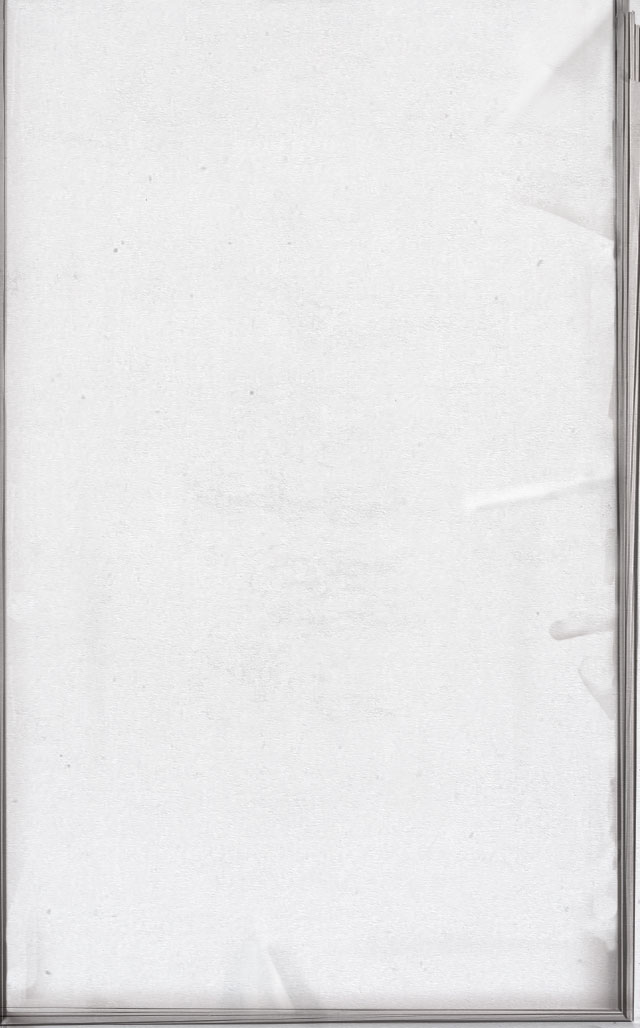
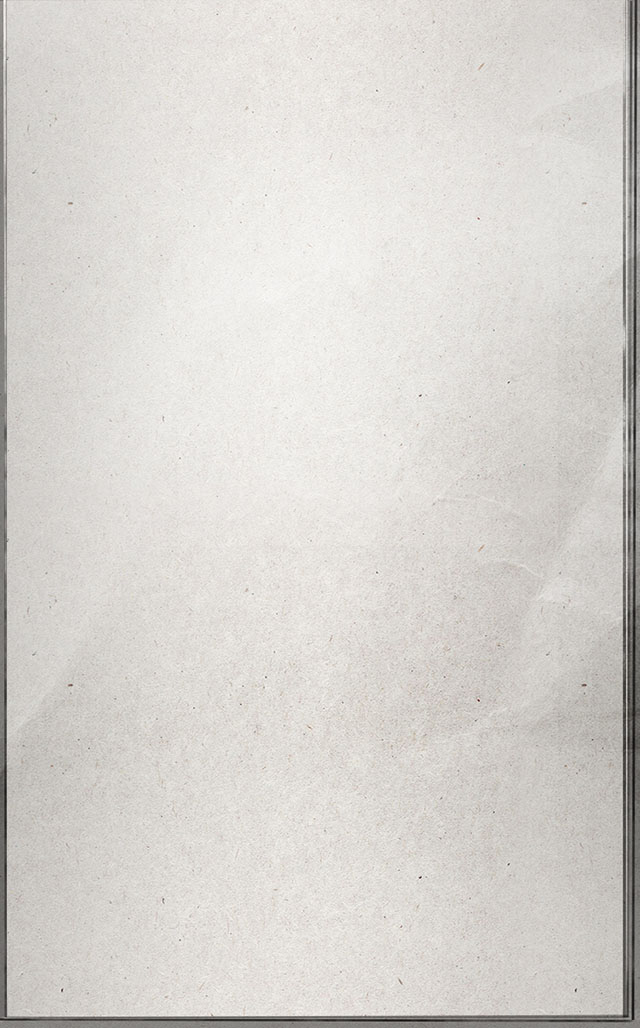
new style

diff --git a/js/jquery.jflip-0.4.js b/js/jquery.jflip-0.4.js
@@ -12,7 +12,7 @@ var screenH = document.documentElement.clientHeight,
     screenW = document.documentElement.clientWidth,
     middlev = parseInt(screenW/2),
     ss = 0,
-    page = 5,
+    page = 4,
     nowPage = 1,
     moveXcount = 0,
     changeValue = true,
@@ -265,7 +265,7 @@ var screenH = document.documentElement.clientHeight,
         },false);
         mainP.addEventListener('touchend', function (e) {
             if(count_data.touchStartX>=middlev){
-                if(nowPage<5){
+                if(nowPage<4){
                     onCorner = true;
                     sideLeft = false;
                     if(changeValue){
@@ -302,7 +302,7 @@ var screenH = document.documentElement.clientHeight,
                         clearTimeout(delayTimer)
                     }
                 }
-                if(nowPage != 5){
+                if(nowPage != 4){
                     $(".share-bg").hide();
                     $(".share-tips").hide();
                 }
@@ -320,15 +320,9 @@ var screenH = document.documentElement.clientHeight,
                 clearInterval(aniTimer11);
             }
             if(nowPage == 4){
-
+                $(".fy-tips").hide();
                 clearInterval(aniTimer7);
                 clearInterval(aniTimer8);
-            }
-            if(nowPage == 5){
-                $(".fy-tips").hide();
-                clearInterval(aniTimer12);
-                clearInterval(aniTimer13);
-                clearInterval(aniTimer14);
             }
             count_data.touchStartX= 0;
             count_data.touchEndX = 0;
@@ -353,7 +347,7 @@ var screenH = document.documentElement.clientHeight,
                         $("#sec"+nowPage).removeClass('z5');
                         nowPage--;
                         if(nowPage<1){
-                            nowPage = 5
+                            nowPage = 4
                         }
                         $("#sec"+nowPage).addClass('z5');
                         images.unshift(images.pop());
@@ -362,7 +356,7 @@ var screenH = document.documentElement.clientHeight,
                     } else {
                         $("#sec"+nowPage).removeClass('z5');
                         nowPage++;
-                        if(nowPage>5){
+                        if(nowPage>4){
                             nowPage = 1;
                         }
                         $("#sec"+nowPage).addClass('z5');
@@ -451,13 +445,14 @@ var screenH = document.documentElement.clientHeight,
                 //ctx.drawImage(images[6],0,0,screenW,screenH);
                 ctx.drawImage(bgImg,0,0,screenW*ratio,screenH*ratio);
                 var img = images[0], r = $(img).data("flip.scale");
-                //ctx.drawImage(img,(width-img.width/2*ss*0.875)/2-img.width/2*ss*0.875*0.015,(height-img.height/2*ss*0.875)/2-img.height/2*ss*0.875*0.01,img.width/2*ss*0.875*ratio,img.height/2*ss*0.875*ratio);
-                ctx.drawImage(img,(width*ratio-img.width/2*ss*0.875*ratio)/2-img.width/2*ss*0.875*0.015*ratio,(height*ratio-img.height/2*ss*0.875*ratio)/2-img.height/2*ss*0.875*0.01*ratio,img.width/2*ss*0.875*ratio,img.height/2*ss*0.875*ratio);
-                lv = (width-img.width/2*ss*0.875)/2-img.width/2*ss*0.875*0.015;
-                tv = (height-img.height/2*ss*0.875)/2-img.height/2*ss*0.875*0.01;
+                //ctx.drawImage(img,(width-img.width/2*ss*1)/2-img.width/2*ss*1*0.015,(height-img.height/2*ss*1)/2-img.height/2*ss*1*0.01,img.width/2*ss*1*ratio,img.height/2*ss*1*ratio);
+                ctx.drawImage(img,0,0,
+                    img.width/2*ss*1*ratio,img.height/2*ss*1*ratio);
+                lv = (width-img.width/2*ss*1)/2-img.width/2*ss*1*0.015;
+                tv = (height-img.height/2*ss*1)/2-img.height/2*ss*1*0.01;
                 $(".section").css({
-                    "top":tv,
-                    "left":lv
+                    "top":0,
+                    "left":0
                 })
 
                 if(mY && mX!=width) {
@@ -568,10 +563,13 @@ var screenH = document.documentElement.clientHeight,
                         //ctx.drawImage(img,(width-img.width)/2,(height-img.height)/2);
 
                         //ctx.drawImage(images[6],0,0,screenW,screenH);
-                        // ctx.drawImage(img,(width-img.width/2*ss*0.875)/2-img.width/2*ss*0.875*0.015,(height-img.height/2*ss*0.875)/2-img.height/2*ss*0.875*0.01,img.width/2*ss*0.875*ratio,img.height/2*ss*0.875*ratio);
+                        // ctx.drawImage(img,(width-img.width/2*ss*1)/2-img.width/2*ss*1*0.015,(height-img.height/2*ss*1)/2-img.height/2*ss*1*0.01,img.width/2*ss*1*ratio,img.height/2*ss*1*ratio);
 
                         ctx.drawImage(bgImg,0,0,screenW*ratio,screenH*ratio);
-                        ctx.drawImage(img,(width*ratio-img.width/2*ss*0.875*ratio)/2-img.width/2*ss*0.875*0.015*ratio,(height*ratio-img.height/2*ss*0.875*ratio)/2-img.height/2*ss*0.875*0.01*ratio,img.width/2*ss*0.875*ratio,img.height/2*ss*0.875*ratio);
+                        ctx.drawImage(img,
+                            0,0,
+                            img.width/2*ss*1*ratio,
+                            img.height/2*ss*1*ratio);
 
                         ctx.restore();
                         if($.browser.safari || $.browser.opera) {
@@ -673,7 +671,7 @@ function aniJudg(){
         picAniK("sec3-3",91,64,24,130);//11
     }
     if(nowPage == 4){
-        $(".fy-tips").show();
+        $(".fy-tips").hide();
         $("#sec4 .pic").hide();
         // clearInterval(aniTimer9);
         // clearInterval(aniTimer10);
@@ -684,19 +682,7 @@ function aniJudg(){
         picAniG("sec4-1",282,76,51,100);//7
         picAniH("sec4-2",90,54,4,800);//8
     }
-    if(nowPage == 5){
-        $(".fy-tips").hide();
-        $("#sec5 .pic").hide();
-        picAniL("sec5-1",282,109,6,800);//12
-        picAniM("sec5-2",91,51,26,120);//13
-        picAniN("sec5-3",90,64,26,120);//14
-    }
 }
-
-// $("#sec1 .pic").hide();
-// picAni("sec1-2",112,72,18,100); 
-
-
 
 function picAniA(id,w,h,n,speed){
     var box = $("#"+id),

diff --git a/css/style.css b/css/style.css
@@ -35,10 +35,10 @@ input,select,option{outline:none}
 }
 @-webkit-keyframes fyAni{
     0%{ 
-        -webkit-transform: translate3d(8px,5px,2px);
+        -webkit-transform: translate3d(0px,0px,0px);
     }
     100%{ 
-        -webkit-transform: translate3d(0px,0px,0px);
+        -webkit-transform: translate3d(-4px,-2px,-1px);
     }
 }
 .main{
@@ -52,23 +52,19 @@ input,select,option{outline:none}
 	height: 100%
 }
 .main-1{
-	background: url(../images/sec1-bg-none.jpg) center top no-repeat;
+	background: url(../images/sec1-bg-none.png) center top no-repeat;
 	background-size: 285px 499px;	
 }
 .main-2{
-	background: url(../images/sec2-bg-none.jpg) center top no-repeat;
+	background: url(../images/sec2-bg-none.png) center top no-repeat;
 	background-size: 285px 499px;	
 }
 .main-3{
-	background: url(../images/sec3-bg-none.jpg) center top no-repeat;
+	background: url(../images/sec3-bg-none.png) center top no-repeat;
 	background-size: 285px 499px;	
 }
 .main-4{
-	background: url(../images/sec4-bg-none.jpg) center top no-repeat;
-	background-size: 285px 499px;	
-}
-.main-5{
-	background: url(../images/sec5-bg-none.jpg) center top no-repeat;
+	background: url(../images/sec4-bg-none.png) center top no-repeat;
 	background-size: 285px 499px;	
 }
 
@@ -82,13 +78,13 @@ input,select,option{outline:none}
 }
 .main-1 .slogan .slogan-logo{
 	opacity: 0;
-	width: 150px;
-	height: 150px;
-	top: 45px;
+	width: 140px;
+	height: 160px;
+	top: 5px;
 	left: 50%;
 	margin-left: -75px;
 	background: url(../images/slogan-logo.png) 0 0 no-repeat;
-	background-size: 150px 150px;
+	background-size: 140px 160px;
 }
 .main-1 .slogan .slogan-txt1{
 	opacity: 0;
@@ -188,11 +184,11 @@ input,select,option{outline:none}
     }
     20%{ 
         opacity: 0;
-        -webkit-transform:translate(0,,5px);
+        -webkit-transform:translate(0,5px);
     }
     40%{ 
         opacity: 0;
-        -webkit-transform:translate(0,,5px);
+        -webkit-transform:translate(0,5px);
     }
     60%{ 
         opacity: 1;
@@ -349,24 +345,6 @@ input,select,option{outline:none}
 	background: url(http://game.gtimg.cn/images/up/act/a20160318paper/sec_7_3.png) center bottom no-repeat;
 	background-size: 135px 35px;
 	opacity: 0;*/
-}
-.share-tips{
-	width: 14px;
-	height: 140px;
-	top: 2px;
-	right: 23px;
-	background: url(http://game.gtimg.cn/images/up/act/a20160318paper/share_tips.png) 0 0 no-repeat;
-	background-size: cover;
-	z-index: 30;
-}
-.share-bg{
-	width: 100%;
-	height: 100%;
-	top: 0;
-	left:0; 
-	background: #000;
-	opacity: 0.6;
-	z-index: 20;
 }
 .z5 .main-5 .sec-1{
 	-webkit-animation: opShow .3s ease-in forwards;

diff --git a/index.html b/index.html
@@ -22,9 +22,6 @@
 					<div class="pa slogan">
 						<span class="pa ht slogan-logo"></span>
 						<div class="slogan-box">
-							<span class="pa ht slogan-txt1"></span>
-							<span class="pa ht slogan-txt2"></span>
-							<span class="pa ht slogan-copyright"></span>							
 						</div>
 					</div>
 				</div>            	
@@ -67,38 +64,22 @@
 					</div>
 				</div>			            	
 	        </div>
-	        <div class="section" id="sec5">  
-	        	<div class="main main-5 main-5-show">
-					<div class="pa sec-1" id="sec5-1">
-						<h4 class="none"></h4>
-					</div>
-					<div class="pa sec-2" id="sec5-2">
-						<p class="none"></p>
-					</div>
-					<div class="pa sec-3" id="sec5-3">
-						<p class="none"></p>
-					</div>
-				</div>
-	        </div>    		
     	</div>
     	<div class="pa fy-tips"></div>
     </div>
 	<div class="pa flip-box" style="display:none">
 		<ul id="g1">
 			<li>
-				<img src="images/sec1-bg.jpg" />
+				<img src="images/sec1-bg.png" />
 			</li>
 			<li>
-				<img src="images/sec2-bg.jpg" />
+				<img src="images/sec2-bg.png" />
 			</li>
 			<li>
-				<img src="images/sec3-bg.jpg" />
+				<img src="images/sec3-bg.png" />
 			</li>
 			<li>
-				<img src="images/sec4-bg.jpg" />
-			</li>
-			<li>
-				<img src="images/sec5-bg.jpg" />
+				<img src="images/sec4-bg.png" />
 			</li>
 		</ul>
 	</div>

diff --git a/js/common.js b/js/common.js
@@ -36,15 +36,15 @@ function pageScale(){
         }
     }   
     //$(".main").css({"-webkit-transform":"translate3d(-51.5%,-51%,0) scale("+ss*0.875+")"});
-    $(".main").css({"-webkit-transform":"scale("+ss*0.875+")"});
+    $(".main").css({"-webkit-transform":"scale("+ss*1+")"});
 };
 $(".loading").css({
     "width":screenW,
     "height":screenH
-})
+});
 
 var basePath = "images/";
-var loadingArr = ["sec1-bg.jpg","sec2-bg.jpg","sec3-bg.jpg","sec4-bg.jpg","sec5-bg.jpg","sec1-bg-none.jpg","sec2-bg-none.jpg","sec3-bg-none.jpg","sec4-bg-none.jpg","sec5-bg-none.jpg"];
+var loadingArr = ["sec1-bg.png","sec2-bg.png","sec3-bg.png","sec4-bg.png","sec1-bg-none.png","sec2-bg-none.png","sec3-bg-none.png","sec4-bg-none.png"];
 var firstImgLoadArr = [];
 for (var i = 0; i < loadingArr.length; i++) {
     loadingArr[i] = basePath + loadingArr[i];
